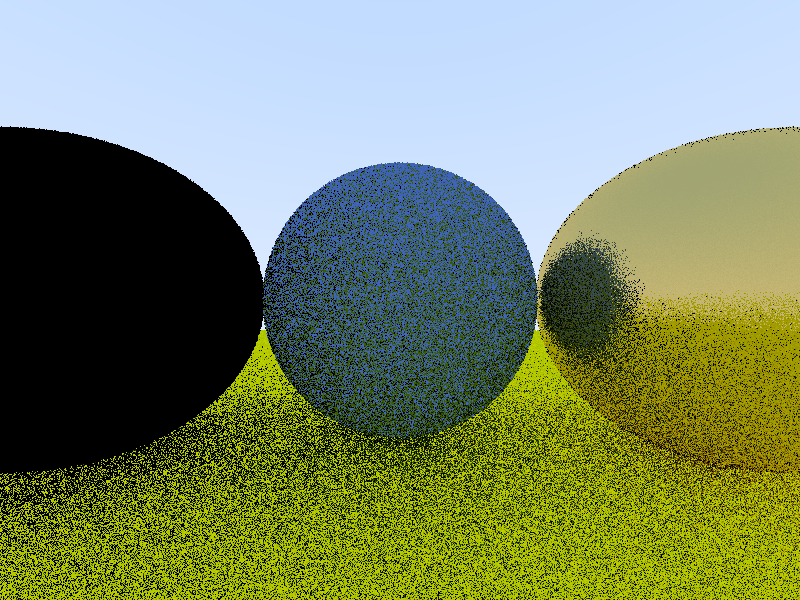
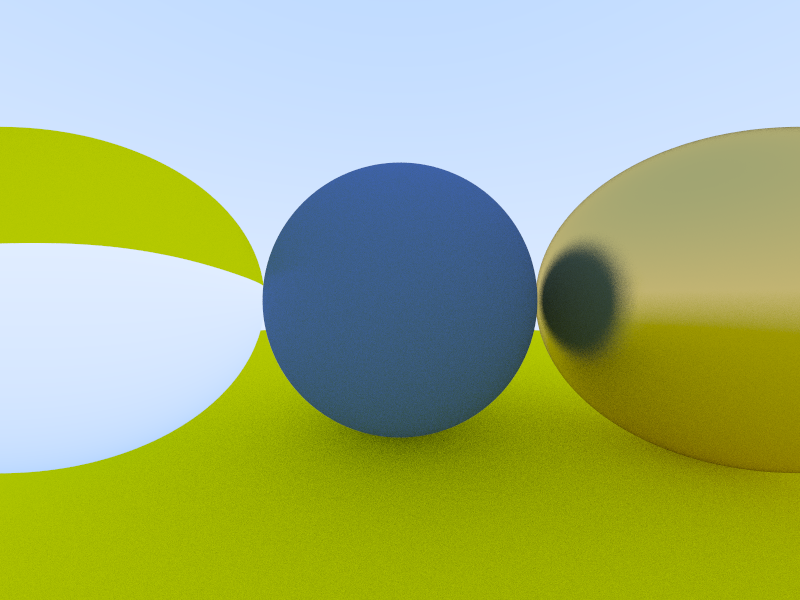
slightly less bad dielectric

diff --git a/src/materials.rs b/src/materials.rs
@@ -42,7 +42,9 @@ fn reflect(v: DVec3, n: DVec3) -> DVec3 {
 fn refract(uv: DVec3, n: DVec3, etai_over_etat: f64) -> Option<DVec3> {
   let cos_theta: f64 = (-uv).dot(n).min(1.0);
   let r_out_perp: DVec3 = etai_over_etat * (uv + cos_theta * n);
-  let r_out_parallel_sq: f64 = 1.0 - r_out_perp.length_squared();
+  let r_out_parallel_sq: f64 = (1.0 - r_out_perp.length_squared()).abs();
+  let r_out_parallel: DVec3 = -(r_out_parallel_sq.sqrt()) * n;
+  Some(r_out_perp + r_out_parallel)
   // if r_out_parallel_sq < 0.0 {
   //   None // Total internal reflection
   // } else {
@@ -162,7 +164,7 @@ impl Material for Dielectric {
       )
     };
 
-    if let Some(refracted) = refract(unit_direction, intersection.normal, ni_over_nt) {
+    if let Some(refracted) = refract(unit_direction, outward_normal, ni_over_nt) {
       let scattered_ray: Ray = Ray {
         origin: intersection.location,
         direction: refracted,

diff --git a/src/main.rs b/src/main.rs
@@ -67,7 +67,7 @@ fn main() {
     + 0.5 * (delta_u + delta_v);
 
   // Set-up rendering settings
-  let samples: i32 = 1;
+  let samples: i32 = 100;
   let max_bounces: i32 = 50;
 
   // Write an image
